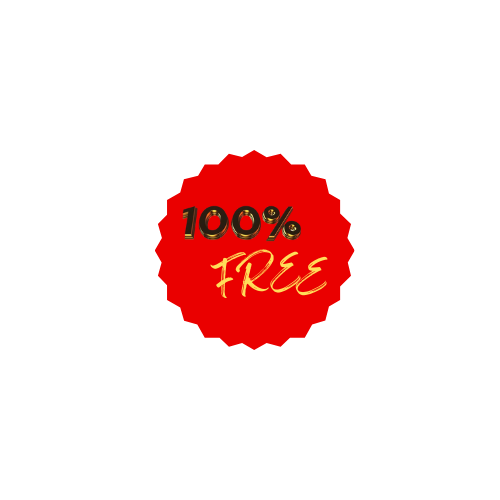
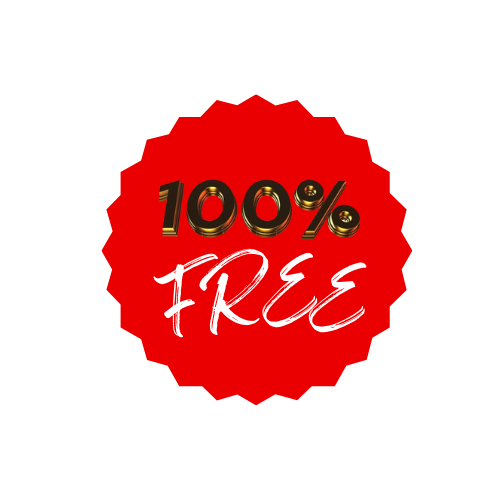
update modal discount image

Changed region(s): [[0.18, 0.18, 0.84, 0.81]]

diff --git a/public/assets/css/style.css b/public/assets/css/style.css
@@ -10304,12 +10304,12 @@ input[type="email"] {
 /* discount image */
 
 .discount{
-  width: 200px;
-  height: 200px;
+  width: 150px;
+  height: 150px;
   position: absolute;
-  transform: rotate(-30deg);
-  top: -23%;
-  left: -23%;
+  transform: rotate(-35deg);
+  top: -19%;
+  left: -19%;
 }
 
 /* End Modal Content */
